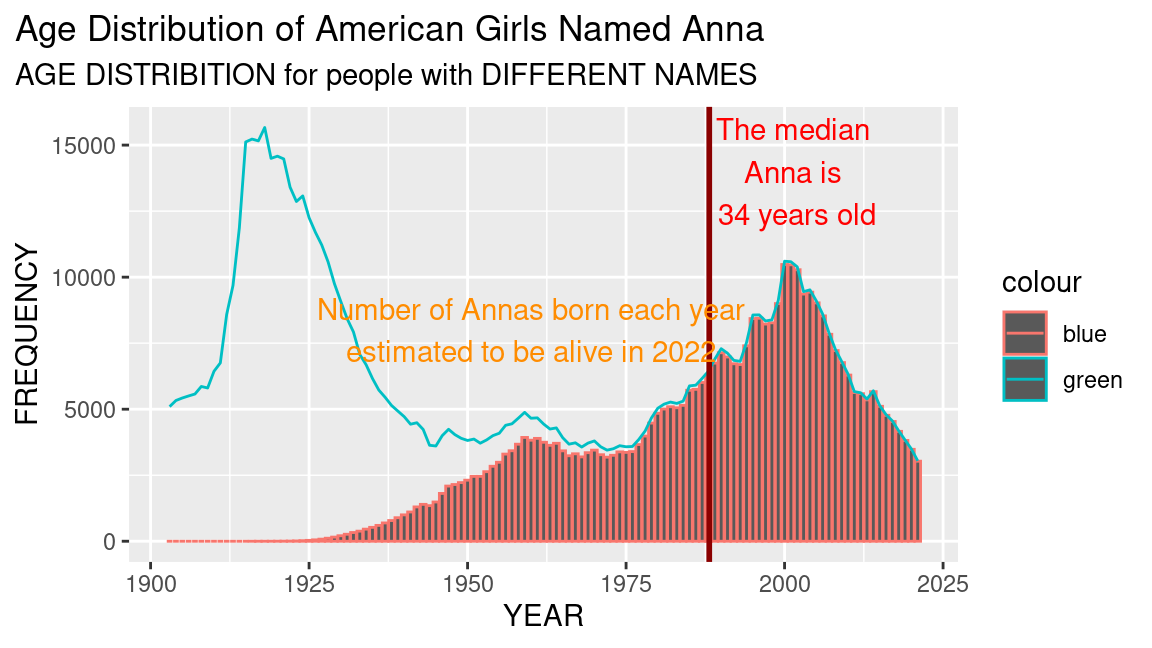
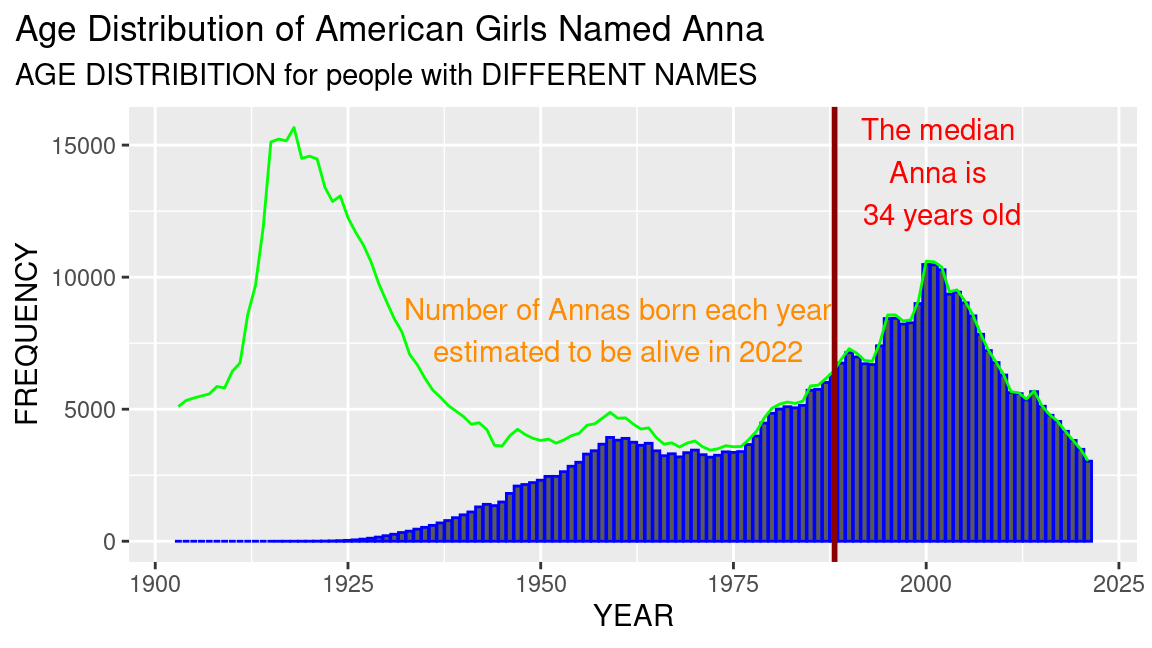
FINAL Commit - hope fully it reaches CO-RISE PLATFORM correctly. Pray 2 BHAGWAN.

diff --git a/projects/project-02/project-02-estimate-age-from-name.md b/projects/project-02/project-02-estimate-age-from-name.md
@@ -30,6 +30,20 @@ tbl_names <- readr::read_csv(file_name_names, show_col_types = TRUE)
 
 # Print tbl_names
 tbl_names
+#> # A tibble: 2,052,781 × 4
+#>     year name      sex   nb_births
+#>    <dbl> <chr>     <chr>     <dbl>
+#>  1  1880 Mary      F          7065
+#>  2  1880 Anna      F          2604
+#>  3  1880 Emma      F          2003
+#>  4  1880 Elizabeth F          1939
+#>  5  1880 Minnie    F          1746
+#>  6  1880 Margaret  F          1578
+#>  7  1880 Ida       F          1472
+#>  8  1880 Alice     F          1414
+#>  9  1880 Bertha    F          1320
+#> 10  1880 Sarah     F          1288
+#> # ℹ 2,052,771 more rows
 ```
 
 #### Lifetables
@@ -118,8 +132,30 @@ We already ran the code above and saved the data as
 # Read data/lifetables.csv.gz into a data frame named `tbl_lifetables`
 file_names_names <- here::here('data/lifetables.csv.gz')
 tbl_lifetables <- readr::read_csv(file_names_names, show_col_types = TRUE)
+#> Rows: 5040 Columns: 9
+#> ── Column specification ────────────────────────────────────────────────────────
+#> Delimiter: ","
+#> chr (1): sex
+#> dbl (8): year, age, qx, lx, dx, Lx, Tx, ex
+#> 
+#> ℹ Use `spec()` to retrieve the full column specification for this data.
+#> ℹ Specify the column types or set `show_col_types = FALSE` to quiet this message.
 # Print `tbl_lifetables`
 tbl_lifetables
+#> # A tibble: 5,040 × 9
+#>     year sex     age      qx     lx    dx    Lx      Tx    ex
+#>    <dbl> <chr> <dbl>   <dbl>  <dbl> <dbl> <dbl>   <dbl> <dbl>
+#>  1  1900 M         0 0.146   100000 14596 90026 4640595  46.4
+#>  2  1900 M         1 0.0381   85404  3257 83776 4550569  53.3
+#>  3  1900 M         2 0.0196   82147  1608 81343 4466793  54.4
+#>  4  1900 M         3 0.0135   80539  1090 79994 4385450  54.4
+#>  5  1900 M         4 0.0108   79449   858 79020 4305456  54.2
+#>  6  1900 M         5 0.00794  78591   624 78279 4226436  53.8
+#>  7  1900 M         6 0.0057   77967   444 77745 4148156  53.2
+#>  8  1900 M         7 0.00407  77523   316 77365 4070411  52.5
+#>  9  1900 M         8 0.00305  77207   235 77090 3993046  51.7
+#> 10  1900 M         9 0.00256  76972   197 76874 3915956  50.9
+#> # ℹ 5,030 more rows
 ```
 
 It is always a good idea to plot the data to understand it better. Given
@@ -146,6 +182,8 @@ tbl_lifetables |>
   # Update theme to move plot title
   theme(plot.title.position = 'plot')
 ```
+
+<img src="img/plot-lifetables-1.png" width="100%" style="display: block; margin: auto;" />
 
 Looking at the plot, we gather that a male born in 1950 has almost a 50%
 chance of being alive in 2022. Notice that `tbl_lifetable` only has
@@ -195,6 +233,20 @@ tbl_lifetables_extended <- tbl_lifetables |>
   ungroup()
 
 tbl_lifetables_extended
+#> # A tibble: 48,240 × 5
+#>    sex     age  year     lx is_imputed
+#>    <chr> <dbl> <dbl>  <dbl> <lgl>     
+#>  1 F         0  1900 100000 FALSE     
+#>  2 F         0  1901 100000 TRUE      
+#>  3 F         0  1902 100000 TRUE      
+#>  4 F         0  1903 100000 TRUE      
+#>  5 F         0  1904 100000 TRUE      
+#>  6 F         0  1905 100000 TRUE      
+#>  7 F         0  1906 100000 TRUE      
+#>  8 F         0  1907 100000 TRUE      
+#>  9 F         0  1908 100000 TRUE      
+#> 10 F         0  1909 100000 TRUE      
+#> # ℹ 48,230 more rows
 ```
 
 We can get the probability that a person has survived till 2022 by
@@ -227,6 +279,8 @@ tbl_lifetables_extended_2022 |>
   theme(plot.title.position = 'plot')
 ```
 
+<img src="img/plot-lifetables-extended-1.png" width="100%" style="display: block; margin: auto;" />
+
 Note how imputing the data provides more realistic estimates of the
 probabilities as seen by comparing the smooth curve with the steps.
 
@@ -251,6 +305,20 @@ tbl_names_extended <- tbl_names |>
   mutate(nb_alive = p_alive * nb_births)
 
 tbl_names_extended
+#> # A tibble: 1,990,272 × 8
+#>     year name      sex   nb_births   age is_imputed p_alive nb_alive
+#>    <dbl> <chr>     <chr>     <dbl> <dbl> <lgl>        <dbl>    <dbl>
+#>  1  1903 Mary      F         14275   119 TRUE             0        0
+#>  2  1903 Helen     F          6129   119 TRUE             0        0
+#>  3  1903 Anna      F          5098   119 TRUE             0        0
+#>  4  1903 Margaret  F          5046   119 TRUE             0        0
+#>  5  1903 Ruth      F          4517   119 TRUE             0        0
+#>  6  1903 Elizabeth F          3724   119 TRUE             0        0
+#>  7  1903 Marie     F          3469   119 TRUE             0        0
+#>  8  1903 Florence  F          3468   119 TRUE             0        0
+#>  9  1903 Ethel     F          3257   119 TRUE             0        0
+#> 10  1903 Mildred   F          3088   119 TRUE             0        0
+#> # ℹ 1,990,262 more rows
 ```
 
 ### Model Data
@@ -286,6 +354,10 @@ tbl_names_extended |>
   dplyr::filter(name == "Gertrude", sex == "F") |>
   # Estimate age stats
   estimate_age_stats()
+#> # A tibble: 1 × 7
+#>   `  0%` ` 25%` ` 50%` ` 75%` `100%` p_alive age_median
+#>    <dbl>  <dbl>  <dbl>  <dbl>  <dbl>   <dbl>      <dbl>
+#> 1      1     63     72     79    106  0.0659       68.2
 ```
 
 Let us write another function that plots the age distribution for a
@@ -302,9 +374,9 @@ plot_estimated_age <- function(tbl, my_name, my_sex) {
     # Initialize a ggplot with x = year
     ggplot(aes(x = year)) +
     # Add a column layer with y = nb_alive, and appropriate colors
-    geom_col(aes (y = nb_alive, fill = 'white', color = 'green')) +
+    geom_col(aes (y = nb_alive), color = 'blue') +
     # Add a line layer with y = nb_births, and appropriate colors
-    geom_line(aes (y = nb_births, colors = 'black')) +
+    geom_line(aes (y = nb_births), color = 'green') +
     # Add a vertical line for the median age
     geom_vline(
       aes(xintercept = 2022 - age_median), 
@@ -336,7 +408,7 @@ plot_estimated_age <- function(tbl, my_name, my_sex) {
       aes(label = glue::glue(
         "The median \n {name} is \n {round(age_median, 0)} years old"
       )),
-      color = 'darkred'
+      color = 'red'
     ) +
     # Update theme to move plot title
     theme(plot.title.position = 'plot')
@@ -346,25 +418,41 @@ tbl_names_extended |>
    plot_estimated_age("Anna", "F")
 ```
 
+<img src="img/plot-estimated-age-1.png" width="100%" style="display: block; margin: auto;" />
+
 Let us now get the top 25 most popular names for Females.
 
 ``` r
-# Create `tbl_names_female_top_25` with name and sex for top 25 females
+# slice_max()# Create `tbl_names_female_top_25` with name and sex for top 25 females
 tbl_names_female_top_25 <- tbl_names |>
   # Group by sex and name
-  
+  group_by(sex, name) |>
   # Summarize total number of births
+  summarize(total_births = sum(nb_births), .groups = "drop") |>
   
-  # Remove column nb_births
-  
+  # Remove column nb_births as PER ABOVE STATEMENT 
   # Filter only Females
-
+  filter(sex == "F") |>
   # Slice top 25 rows
-  
+  slice_max(order_by = total_births, n=25) |>
   # Select name and sex
-  
-
+  select(name, sex)
 # Print `tbl_names_female_top_25`
+tbl_names_female_top_25
+#> # A tibble: 25 × 2
+#>    name      sex  
+#>    <chr>     <chr>
+#>  1 Mary      F    
+#>  2 Elizabeth F    
+#>  3 Patricia  F    
+#>  4 Jennifer  F    
+#>  5 Linda     F    
+#>  6 Barbara   F    
+#>  7 Margaret  F    
+#>  8 Susan     F    
+#>  9 Dorothy   F    
+#> 10 Sarah     F    
+#> # ℹ 15 more rows
 ```
 
 Let us join `tbl_names_extended` with `tbl_names_female_top_25` so that
@@ -373,17 +461,32 @@ we only keep rows corresponding to the top 25 female names.
 ``` r
 tbl_names_extended_age <- tbl_names_extended |> 
   # Inner join the `tbl_names_female_top_25` table by `sex` and `name`
-  
+  inner_join(tbl_names_female_top_25, by = c("sex", "name")) |>
   # Group by name and sex
-   
+   group_by(name, sex) |>
   # Estimate age stats
   estimate_age_stats() |> 
   # Arrange the data based on median age
-   
+   arrange(age_median) |>
   # Clean the names
   janitor::clean_names()
 
 tbl_names_extended_age
+#> # A tibble: 25 × 9
+#>    name      sex   x0_percent x25_percent x50_percent x75_percent x100_percent
+#>    <chr>     <chr>      <dbl>       <dbl>       <dbl>       <dbl>        <dbl>
+#>  1 Emily     F              1          16          24          33        104. 
+#>  2 Ashley    F              1          24          31          36         90.5
+#>  3 Anna      F              1          18          29          48        106. 
+#>  4 Jessica   F              1          29          35          40        105. 
+#>  5 Sarah     F              1          25          34          42        104. 
+#>  6 Elizabeth F              1          24          39          57        105. 
+#>  7 Jennifer  F              1          37          43          49         95.7
+#>  8 Michelle  F              1          36          47          54        103. 
+#>  9 Kimberly  F              1          36          48          55         88.4
+#> 10 Lisa      F              1          47          54          59        101. 
+#> # ℹ 15 more rows
+#> # ℹ 2 more variables: p_alive <dbl>, age_median <dbl>
 ```
 
 We can now replicate the plot published by FiveThirtyEight by adding a
@@ -395,25 +498,25 @@ tbl_names_extended_age |>
   # Reorder name based on descending median age 
   mutate(name = fct_reorder(name, desc(age_median))) |> 
   # Initialize a ggplot of age_median vs. name
-  
+  ggplot(aes(x = age_median, y=name)) +
   # Add a segment layer: x = x25_percent, xend = x75_percent and y_end = name
   geom_segment(
     aes(
-      x = ___,
-      xend = ___, 
-      yend = ___
+      x = x25_percent,
+      xend =  x75_percent,
+      yend = name
     ),
-    color = ""___"",
+    color = "blue",
     linewidth = 5
   ) +
   # Add a point layer:
-  geom_point(size = 2, color = ""___"") +
+  geom_point(size = 2, color = "orange") +
   # Add labels (title, subtitle, x, y)
   labs(
-    title = "___",
-    subtitle = "___",
-    x = "___",
-    y = "___"
+    title = "MEDIAN AGE 4 FEAMLES with 25 MOST COMMON NAMES",
+    subtitle = "LIVING AMERICANS",
+    x = "MEDIAN AGE",
+    y = "NAME"
   ) +
   # Update theme to clean up visual appearance of the plot
   theme(
@@ -425,3 +528,5 @@ tbl_names_extended_age |>
     panel.background = element_rect(fill = '#f0f0f0')
   )
 ```
+
+<img src="img/plot-tbl-names-extended-age-1.png" width="100%" style="display: block; margin: auto;" />
